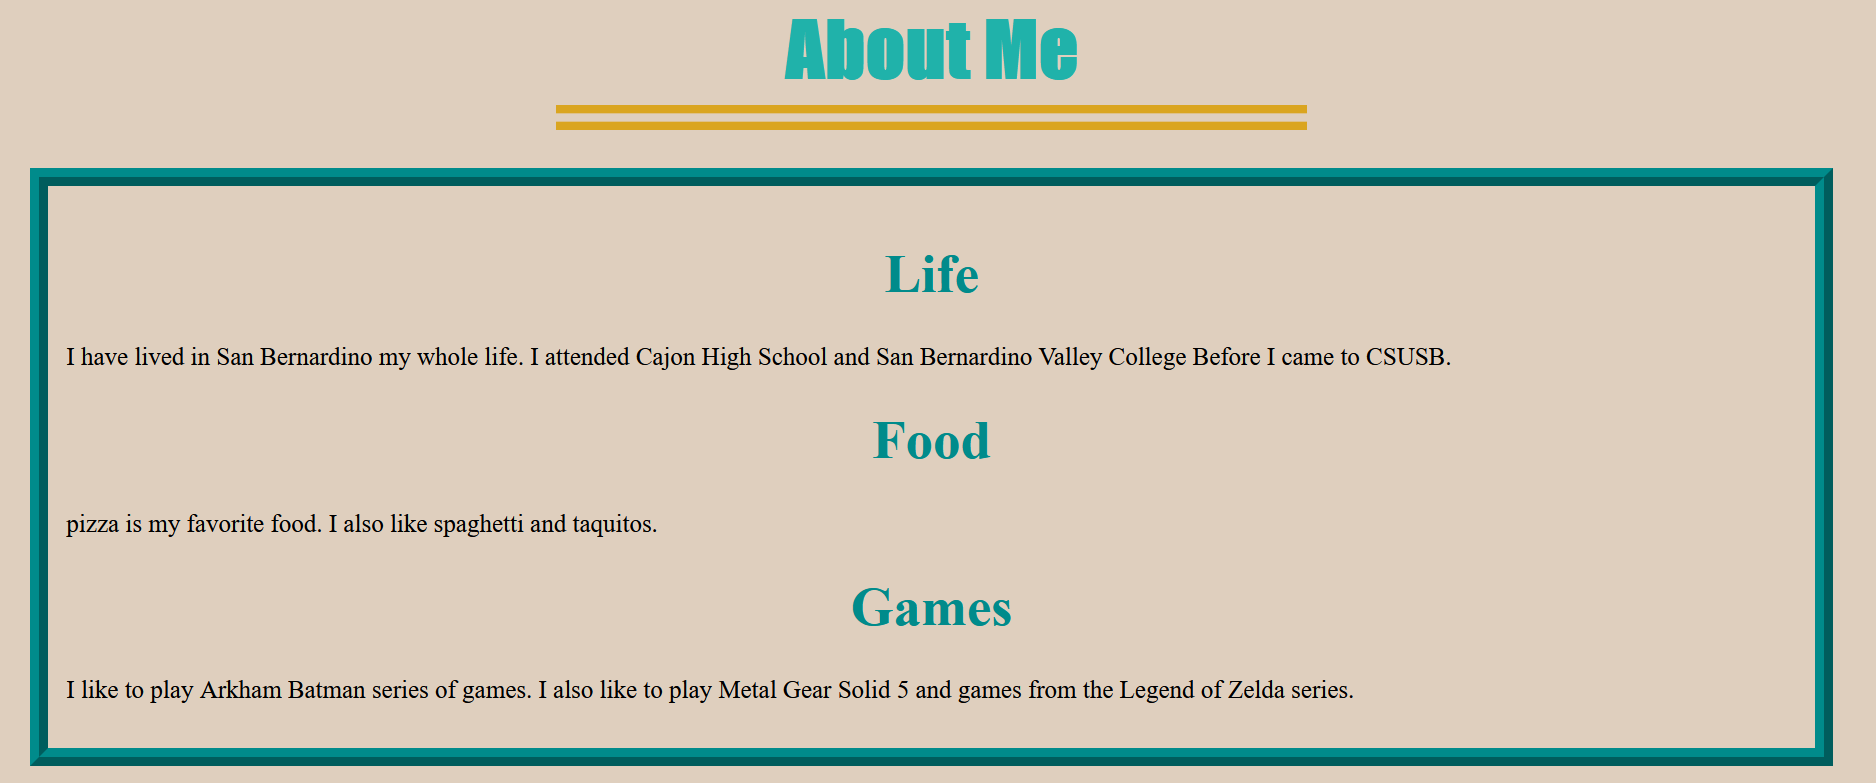
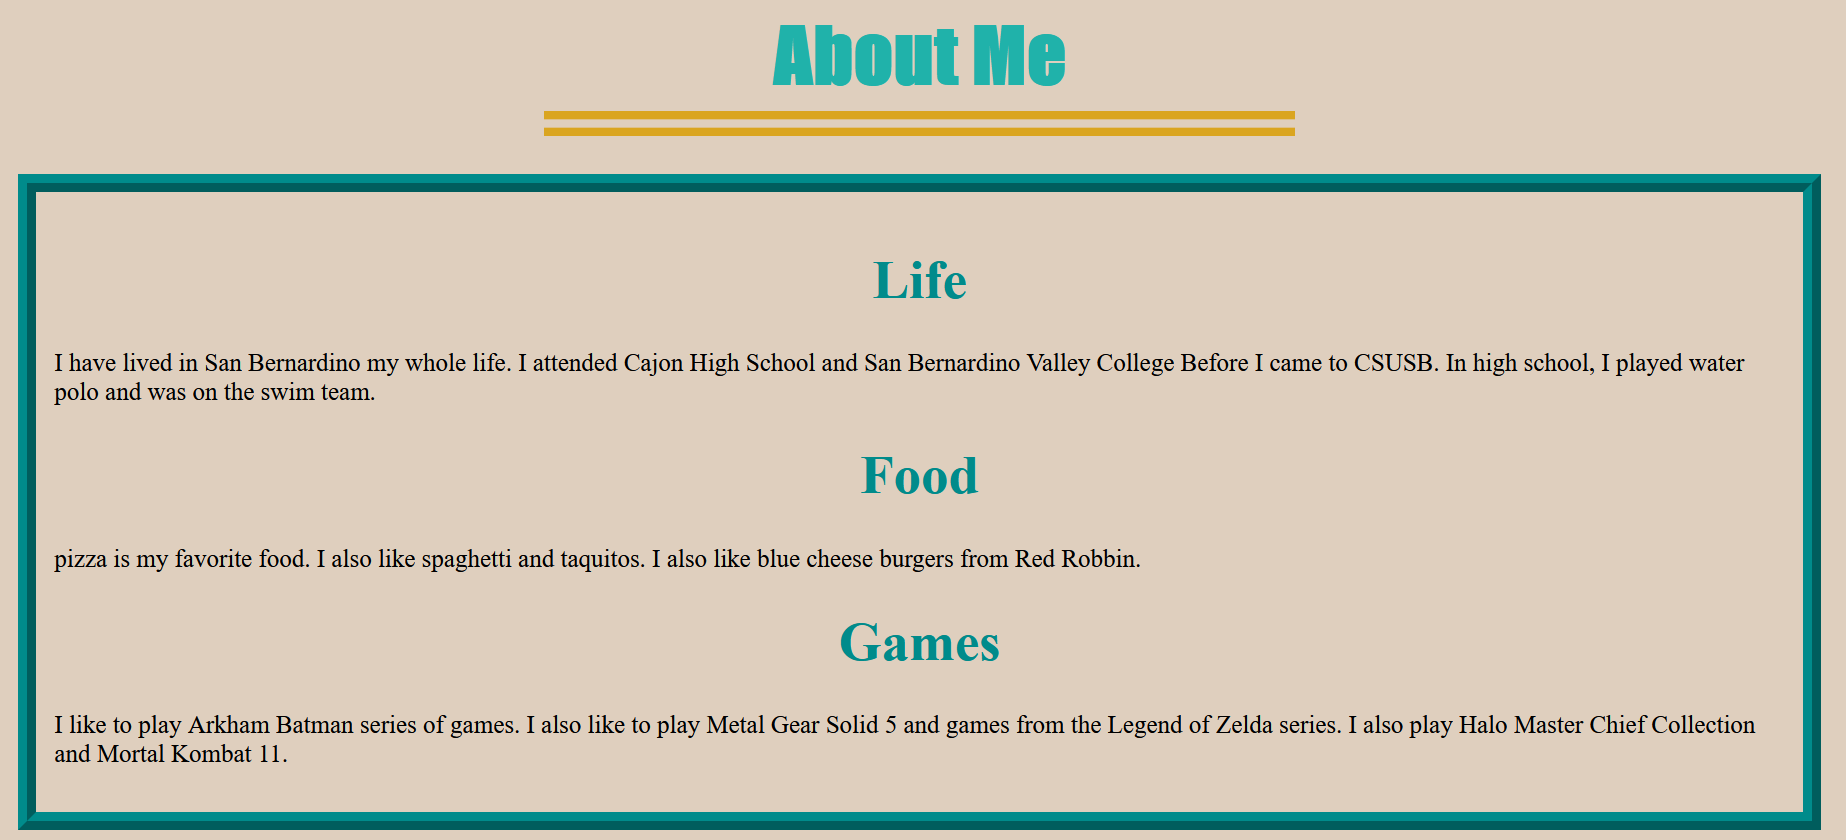
added aditional sentenses
also new screen shot of parargraphs

diff --git a/Lab 1 about me/Assighnment one about me.html b/Lab 1 about me/Assighnment one about me.html
@@ -24,20 +24,20 @@
 <h1>Life</h1>
 </div>
 
-<p>I have lived in San Bernardino my whole life. I attended Cajon High School and San Bernardino Valley College Before I came to CSUSB.</p>
+<p>I have lived in San Bernardino my whole life. I attended Cajon High School and San Bernardino Valley College Before I came to CSUSB. In high school, I played water polo and was on the swim team. </p>
 
 
 <div class = "paraHDR">
 <h1>Food</h1>
 </div>
 
-<p>pizza is my favorite food. I also like spaghetti and taquitos. </p>
+<p>pizza is my favorite food. I also like spaghetti and taquitos. I also like blue cheese burgers from Red Robbin.</p>
 
 <div class = "paraHDR">
 <h1>Games</h1>
 </div>
 
-<p>I like to play Arkham Batman series of games. I also like to play Metal Gear Solid 5 and games from the Legend of Zelda series.</p>
+<p>I like to play Arkham Batman series of games. I also like to play Metal Gear Solid 5 and games from the Legend of Zelda series. I also play Halo Master Chief Collection and Mortal Kombat 11.</p>
 </div>
 
 <div class = "image">
